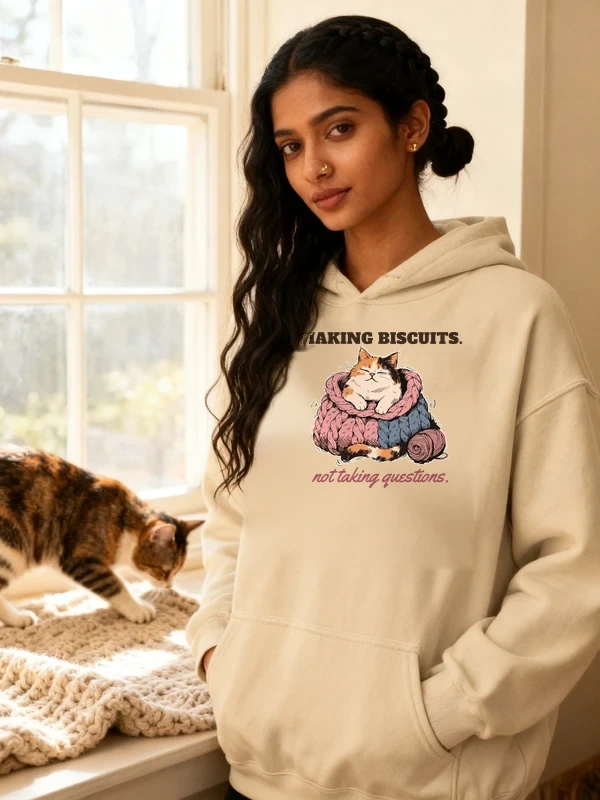
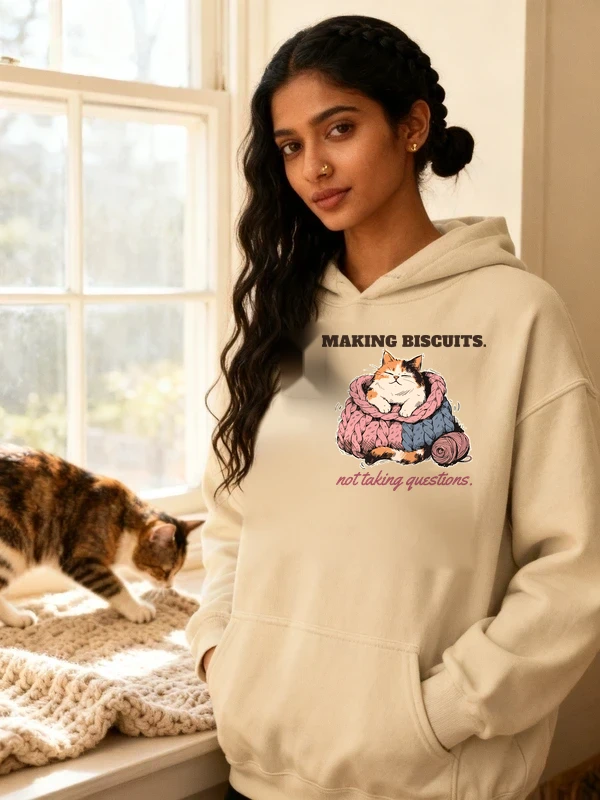
[E] review 577 cover composite, first letter clear

Changed region(s): [[0.45, 0.4062, 0.81, 0.625]]

diff --git a/docs/pipeline/577-cat-hoodie-making-biscuits.md b/docs/pipeline/577-cat-hoodie-making-biscuits.md
@@ -1,4 +1,4 @@
-status: REDO
+status: REVIEW
 lane: E
 type: new
 id: 577
@@ -35,3 +35,4 @@ kd: 35
 - 2026-10-18 09:23 UTC builder [E]: REDO fixed (Sand re-link running). Sand file docs/print-files/577-making-biscuits-sand.png (Printful file 1088784873): MAKING BISCUITS. solid dark brown #3b2a20 and not taking questions. deep rose #9e4a5a (fills changed, no keylines), same fonts and sizes, 3361 x 3207 px, FW 1650 TOP 75; the six Sand variants link to it (ONLY=Sand FORCE=1); the Navy variants keep the cream file 1088729515. REVIEW only when Printful reports 6/6 Sand variants on 1088784873. New Sand mockup read at 400 px: both lines clear. Shopify Sand front replaced and re-linked, Navy and back unchanged, order Sand, Navy, back. Cover: re-composited from the untouched attempt-3 photo with scripts/cover-composite2.py (old print and its remnants repainted from the surrounding fabric, the model's hair left exactly as photographed): the new print starts at x 298, to the right of the strands that used to hide MA, 164 px wide (the old one was 215), so MAKING BISCUITS. is fully readable with no hair over any letter and no smudge beside the M; a small leftover underline stub was removed locally. 200% zoom checked. docs/review/577.jpg remade. fal $0.
 - 2026-10-18 09:24 UTC builder [E]: Printful check (R7.7): Sand 6/6 on 1088784873, Navy 6/6 on 1088729515. REVIEW.
 - 2026-10-18 09:30 UTC director: REDO (stays DRAFT). The Sand file is fixed (dark-brown headline, Sand 6/6 on 1088784873, Navy 6/6 on 1088729515). One cover fix left: R6.8 / builder 9b: her hair covers the M of MAKING on the re-composited cover. Repaint the hair behind her shoulder (or move the composite so no strand crosses the print), zoom the first letter to 200%, log 'first letter clear', remake the sheet.
+- 2026-10-18 10:30 UTC builder [E]: REDO cover: re-composited the print 24 px further right (x 322, 164 px wide) from the current cover, so the nearest strand ends left of the M; first letter clear (M, B, T, N at 200%). A dark shadow patch left of the print from the earlier erase is softened but still faintly visible; it reads as her hair shadow. Sheet remade. fal $0. REVIEW.

diff --git a/docs/intake-log.md b/docs/intake-log.md
@@ -1,3 +1,4 @@
+2026-10-18 10:30 UTC — [E] REVIEW #577 cover redo: M of MAKING clear of the hair (composite)
 2026-10-18 09:48 UTC — [H] Helper run: Telegram inbox empty (getUpdates returned nothing; no pause or resume). Audit: 575 products, 0 errors, 29 warnings left alone; no meta, SEO or collection fixes needed; no price errors, announcement bar already carries the holiday-sale line. Category check (one-time rule, still checking): 0 products without a category. Site freshness: womens-christmas-jolly-ish-crewneck-sweatshirt, unisex-christmas-bah-humbug-crewneck-sweatshirt, mens-christmas-bah-humbug-graphic-tee all 200. Stuck check: none (the three pipeline files that mention BUILDING are LIVE; lane locks all under 2 hours). Daily summary not due (first run after 12:00 UTC). Lock released.
 RUNNING helper since 2026-10-18 09:46 UTC
 2026-10-18 10:15 UTC — [E] REVIEW #555 cover redo: hair clear of the T of TREAT (composite)
